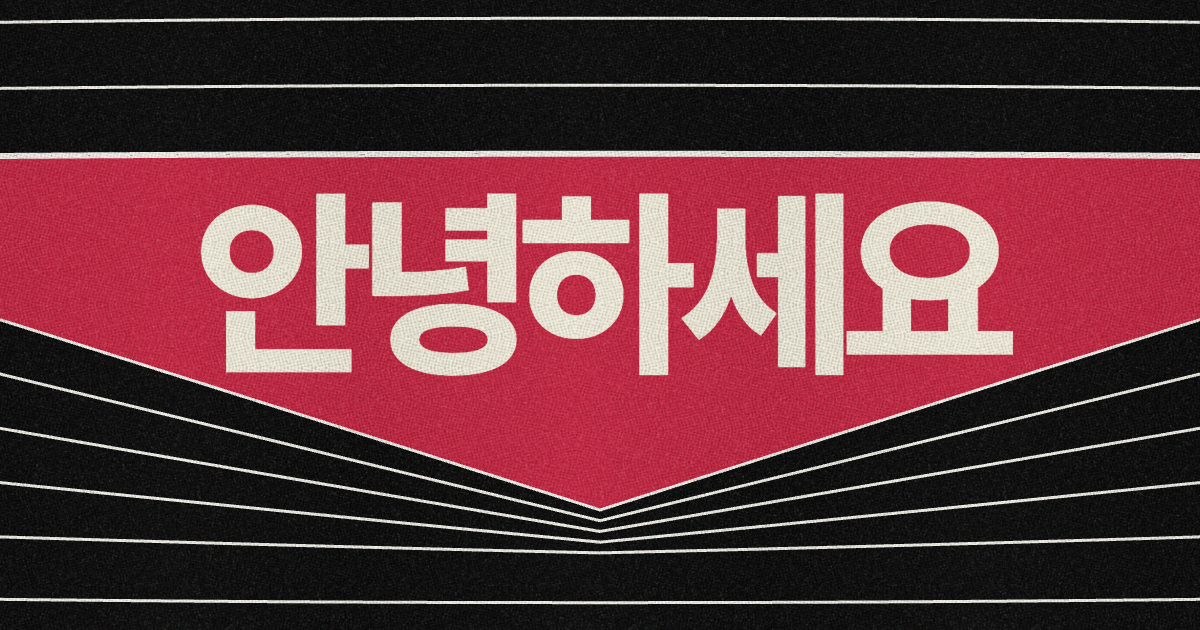
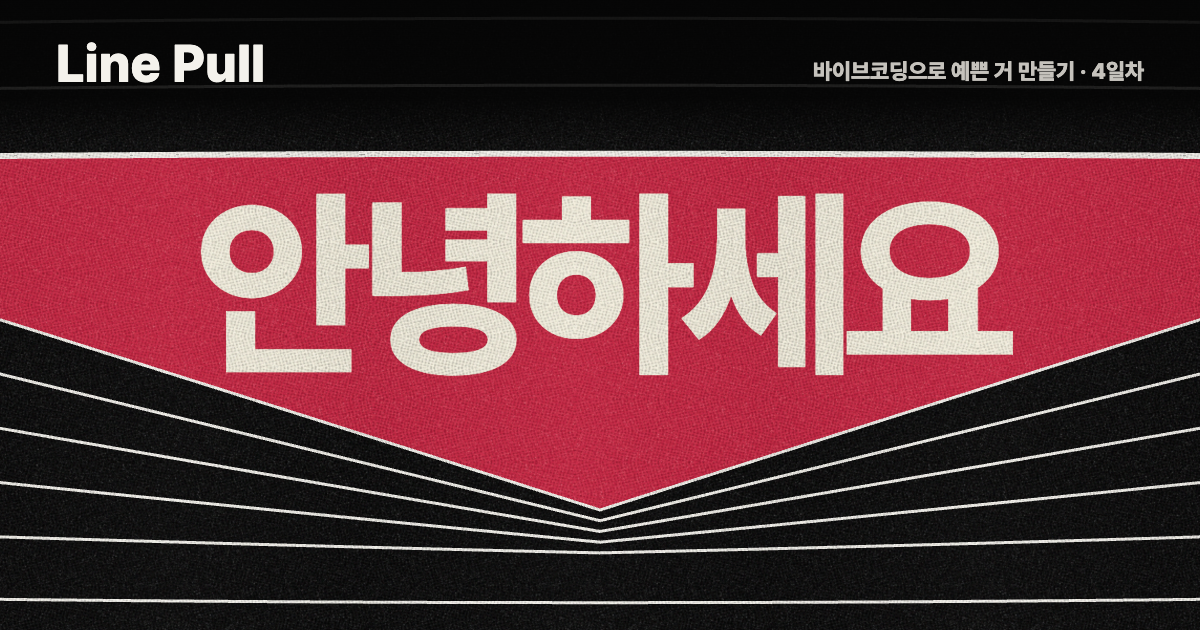
feat(line-pull): compose share card title over captured artwork

Changed region(s): [[0.0, 0.0, 1.0, 0.1508]]

diff --git a/scripts/line-pull-social-image.html b/scripts/line-pull-social-image.html
@@ -1,0 +1,59 @@
+<!doctype html>
+<html lang="ko">
+<head>
+  <meta charset="UTF-8">
+  <meta name="viewport" content="width=device-width, initial-scale=1">
+  <title>Line Pull 공유 이미지 합성</title>
+  <style>
+    * { box-sizing: border-box; }
+    body { margin: 0; padding: 24px; background: #161616; color: #f4f2ec; font-family: system-ui, sans-serif; }
+    main { max-width: 1200px; margin: auto; }
+    h1 { font-size: 22px; margin: 0 0 12px; }
+    p { color: #c5c2bc; line-height: 1.6; }
+    canvas { display: block; width: 100%; height: auto; border: 1px solid #353535; }
+    button { border: 0; border-radius: 6px; padding: 12px 20px; background: #f4f2ec; color: #111; font: inherit; cursor: pointer; }
+    button:disabled { opacity: .5; cursor: wait; }
+    code { overflow-wrap: anywhere; }
+  </style>
+</head>
+<body>
+  <main>
+    <h1>Line Pull 공유 이미지 합성</h1>
+    <p>실제 PNG 캡처에 작품명과 4일차 표기를 합성합니다. 생성형 이미지나 JPEG 중간 파일은 사용하지 않습니다.</p>
+    <canvas id="preview" width="1200" height="630" role="img" aria-label="Line Pull 작품명과 4일차 표기가 있는 공유 이미지"></canvas>
+    <p id="status" role="status">원본 이미지와 Pretendard를 불러오는 중…</p>
+    <button id="download" disabled>PNG 다운로드</button>
+    <p>입력: <code>pages/line-pull/assets/og-artwork.png</code><br>
+      저장 위치: <code>pages/line-pull/assets/og-image.png</code></p>
+  </main>
+  <script type="module">
+    import { drawSocialImage, socialImage } from './line-pull-social-image.mjs';
+    const canvas = document.querySelector('#preview');
+    const status = document.querySelector('#status');
+    const download = document.querySelector('#download');
+    try {
+      const font = new FontFace('Pretendard', 'url(/pages/line-pull/assets/Pretendard-ExtraBold.subset.woff2)', { weight: '800' });
+      const source = new Image();
+      source.src = '/pages/line-pull/assets/og-artwork.png';
+      const [loadedFont] = await Promise.all([font.load(), source.decode()]);
+      document.fonts.add(loadedFont);
+      drawSocialImage(canvas.getContext('2d'), source);
+      status.textContent = `${socialImage.width} × ${socialImage.height} PNG 준비 완료 · ${socialImage.title} · ${socialImage.series}`;
+      download.disabled = false;
+      download.addEventListener('click', () => {
+        canvas.toBlob(blob => {
+          if (!blob) { status.textContent = 'PNG 저장에 실패했습니다.'; return; }
+          const url = URL.createObjectURL(blob);
+          const link = document.createElement('a');
+          link.href = url;
+          link.download = 'line-pull-og-image.png';
+          link.click();
+          setTimeout(() => URL.revokeObjectURL(url), 1000);
+        }, 'image/png');
+      });
+    } catch (error) {
+      status.textContent = `이미지 합성 실패: ${error.message}`;
+    }
+  </script>
+</body>
+</html>

diff --git a/pages/line-pull/index.html b/pages/line-pull/index.html
@@ -15,12 +15,12 @@
   <meta property="og:image:type" content="image/png">
   <meta property="og:image:width" content="1200">
   <meta property="og:image:height" content="630">
-  <meta property="og:image:alt" content="거친 검은 표면의 흰 선이 벌어지며 붉은 틈 사이로 안녕하세요가 드러나는 Line Pull">
+  <meta property="og:image:alt" content="Line Pull · 바이브코딩으로 예쁜 거 만들기 · 4일차. 거친 검은 표면의 흰 선이 벌어지며 붉은 틈 사이로 안녕하세요가 드러나는 공유 이미지">
   <meta name="twitter:card" content="summary_large_image">
   <meta name="twitter:title" content="Line Pull">
   <meta name="twitter:description" content="가로줄을 눌러 당기면 숨겨진 문구가 나타납니다.">
   <meta name="twitter:image" content="https://brand-artwork.vercel.app/pages/line-pull/assets/og-image.png">
-  <meta name="twitter:image:alt" content="거친 검은 표면의 흰 선이 벌어지며 붉은 틈 사이로 안녕하세요가 드러나는 Line Pull">
+  <meta name="twitter:image:alt" content="Line Pull · 바이브코딩으로 예쁜 거 만들기 · 4일차. 거친 검은 표면의 흰 선이 벌어지며 붉은 틈 사이로 안녕하세요가 드러나는 공유 이미지">
   <link rel="preload" href="./assets/Pretendard-ExtraBold.subset.woff2" as="font" type="font/woff2" crossorigin>
   <link rel="stylesheet" href="style.css">
 </head>

diff --git a/docs/artworks/line-pull/social-share-image.md b/docs/artworks/line-pull/social-share-image.md
@@ -1,0 +1,29 @@
+# Line Pull 공유 이미지
+
+실제 작품에서 “안녕하세요”가 드러난 PNG 캡처 위에 작품명과 시리즈 회차를 합성한다. 생성형 이미지나 JPEG 중간 파일은 사용하지 않는다. 일반 제작 기준은 [소셜 공유 이미지 제작](../../guides/social-share-images.md)을 따른다.
+
+## 파일과 역할
+
+- 캡처 원본: `pages/line-pull/assets/og-artwork.png`
+- 최종 공유 카드: `pages/line-pull/assets/og-image.png`
+- 제작 화면: `scripts/line-pull-social-image.html`
+- 합성 코드: `scripts/line-pull-social-image.mjs`
+- 합성 단위 테스트: `scripts/line-pull-social-image.test.mjs`
+- 공유 메타데이터와 PNG 검사: `pages/line-pull/social-preview.test.mjs`
+
+원본과 출력은 모두 1200 × 630이다. 합성은 원본을 크기 변경 없이 그린 뒤 상단 144px에만 어두운 그라디언트와 텍스트를 얹는다. 왼쪽에는 `Line Pull`, 오른쪽에는 `바이브코딩으로 예쁜 거 만들기 · 4일차`를 배치한다. 붉은 틈·인사말·접힌 선은 아래 영역에 있어 합성 대상에서 제외된다.
+
+폰트는 작품에 포함된 Pretendard ExtraBold를 사용한다. 제목은 52px, 시리즈는 22px이며 좌우 여백은 56px이다. 이미지 디코딩과 폰트 로딩이 끝난 후에만 PNG 다운로드 버튼이 활성화된다.
+
+## 재생성
+
+1. 실행 중인 개발 서버를 재사용하거나 `pnpm dev`로 시작한다.
+2. 기존 Chrome 창에서 개발 서버의 `/scripts/line-pull-social-image.html`을 연다. 기본 포트 기준 주소는 `http://127.0.0.1:4173/scripts/line-pull-social-image.html`이다.
+3. 제목·회차를 바꾸려면 합성 모듈의 `socialImage`를 수정한다. PNG 준비 완료 표시와 미리보기의 글자·여백을 확인한다.
+4. **PNG 다운로드**를 눌러 `line-pull-og-image.png`를 저장하고 최종 공유 카드 경로에 반영한다. 화면 전체를 다시 스크린샷으로 저장하지 않는다.
+5. 제목·회차를 변경했다면 `index.html`의 Open Graph·Twitter 대체 텍스트와 관련 테스트도 함께 수정한다.
+6. `pnpm test`, `pnpm typecheck`, `pnpm build`를 실행하고 배포용 PNG가 동일하게 복사됐는지 확인한다.
+
+작품 자체의 폰트·색상·구도가 바뀌면 원본 캡처를 먼저 갱신한다. 원본 대신 이미 텍스트가 합성된 최종 카드를 입력으로 쓰면 안 된다.
+
+이 제작 화면은 개발 서버용 도구이며 작품의 진입점이 아니다. 실제 작품의 입력·애니메이션 코드에는 합성 도구를 연결하지 않으며, 공유 카드는 정적 메타 태그를 통해서만 사용된다.

diff --git a/AGENTS.md b/AGENTS.md
@@ -32,7 +32,7 @@ Interactive web implementations of brand artworks.
 
 ## Workflow
 
-- 소셜 공유 이미지는 GPT Image 등 생성형 이미지 도구를 쓰지 않고 실제 작품 렌더링을 1200×630 PNG로 직접 캡처한다. 제작·연결·검증은 `docs/guides/social-share-images.md`를 따른다.
+- 소셜 공유 이미지는 GPT Image 등 생성형 이미지 도구를 쓰지 않고 실제 작품 렌더링을 1200×630 PNG로 직접 캡처한다. 작품명·회차 텍스트가 필요하면 캡처 원본을 보존하고 코드로 합성한다. 제작·연결·검증은 `docs/guides/social-share-images.md`를 따른다.
 - 테스트는 Vitest의 `test`·`expect`로 작성한다. 전체 실행은 `pnpm test`, 변경 감시는 `pnpm test:watch`, 작품별 실행은 `pnpm test pages/<brand>`를 사용한다.
 - QA 비교 이미지, 측정 JSON, 분석 스크립트와 `design-qa.md` 같은 검증 기록은 커밋하지 않는다. 필요하면 gitignore된 `qa/` 또는 `.qa/`에서 임시로 만들고 작업이 끝나면 제거한다.
 - 하나의 의미 있는 작업 단위가 끝날 때마다 별도 확인 없이 커밋하고 즉시 푸시한다. 서로 독립적인 변경을 하나의 큰 커밋으로 묶지 않는다.

diff --git a/docs/README.md b/docs/README.md
@@ -21,7 +21,7 @@ docs/
 
 ## Guides
 
-- [`social-share-images.md`](./guides/social-share-images.md) - 실제 작품 화면을 PNG로 캡처하고 소셜 공유 메타데이터에 연결·검증하는 공통 절차
+- [`social-share-images.md`](./guides/social-share-images.md) - 실제 작품 화면을 PNG로 캡처하고 제목·회차 합성 및 소셜 공유 메타데이터 연결·검증을 수행하는 공통 절차
 - [`reference-extension-workflow.md`](./guides/reference-extension-workflow.md) - 레퍼런스 복원 뒤 정체성을 유지하며 새로운 상호작용을 제안·비교·선택하는 공통 작업 방식
 
 ## Artworks
@@ -39,6 +39,10 @@ docs/
 
 - [`architecture.md`](./artworks/guseul/architecture.md) - 현재 코드, 입력, SDF, 렌더링 전체 구조
 - [`surface-refraction.md`](./artworks/guseul/surface-refraction.md) - Guseul의 contact SDF, 유리 단면, 굴절 구현
+
+### Line Pull
+
+- [`social-share-image.md`](./artworks/line-pull/social-share-image.md) - 실제 캡처에 작품명·4일차 표기를 합성하는 PNG 제작 도구와 재생성 방법
 
 ## Concepts
 
